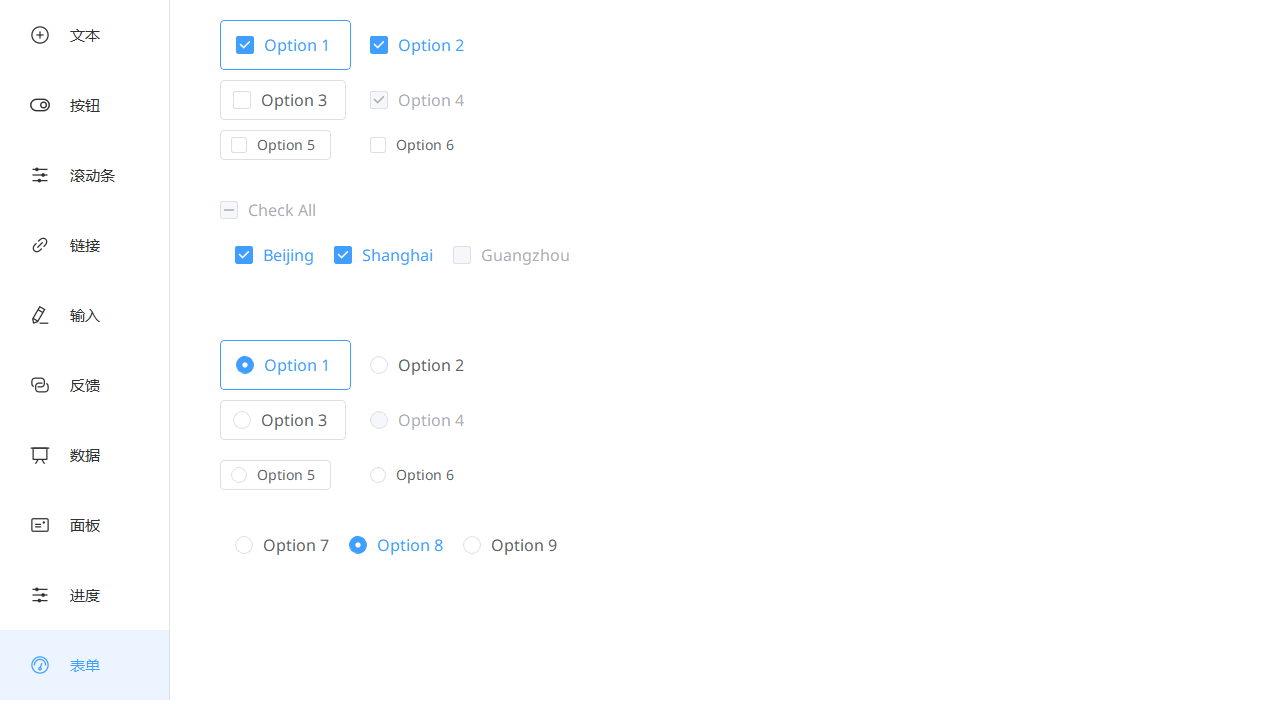
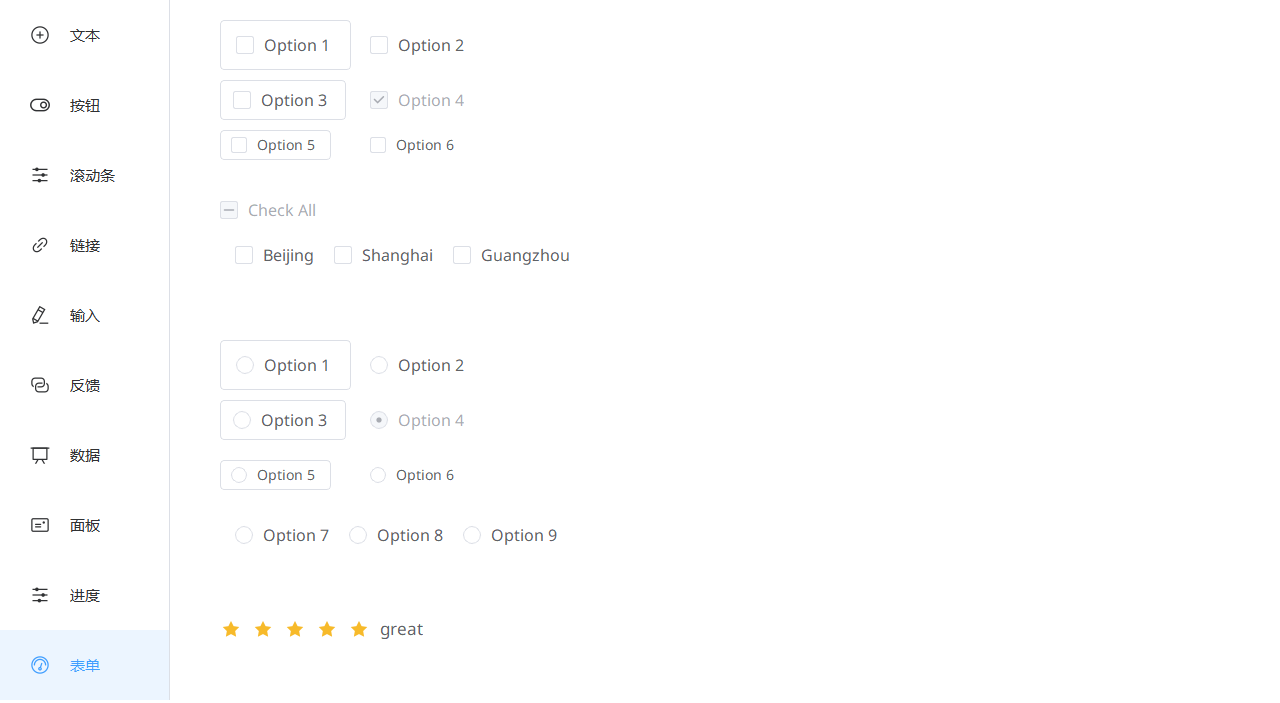
update rate widget and readme

diff --git a/examples/mainwindow.cpp b/examples/mainwindow.cpp
@@ -458,7 +458,8 @@ void MainWindow::setupTab9()
 
     ui->rate->setSize(Rate::Size::Default);
 //    ui->rate->setDisabled(true);
-    ui->rate->setShowScore(true);
+    ui->rate->setShowText(true);
+//    ui->rate->setShowScore(true);
 //    ui->rate->setAllowHalf(true);
     ui->rate->setTexts("oops", "disappointed", "normal", "good", "great");
 }

diff --git a/components/src/rate.cpp b/components/src/rate.cpp
@@ -302,7 +302,6 @@ namespace Element
         }
         else if (_showScore)
         {
-            qDebug() << value;
             _text->setText(QString::number((value / 10.0) * (_max / 50)) + " points");
             _text->setColor(color);
             _text->show();
